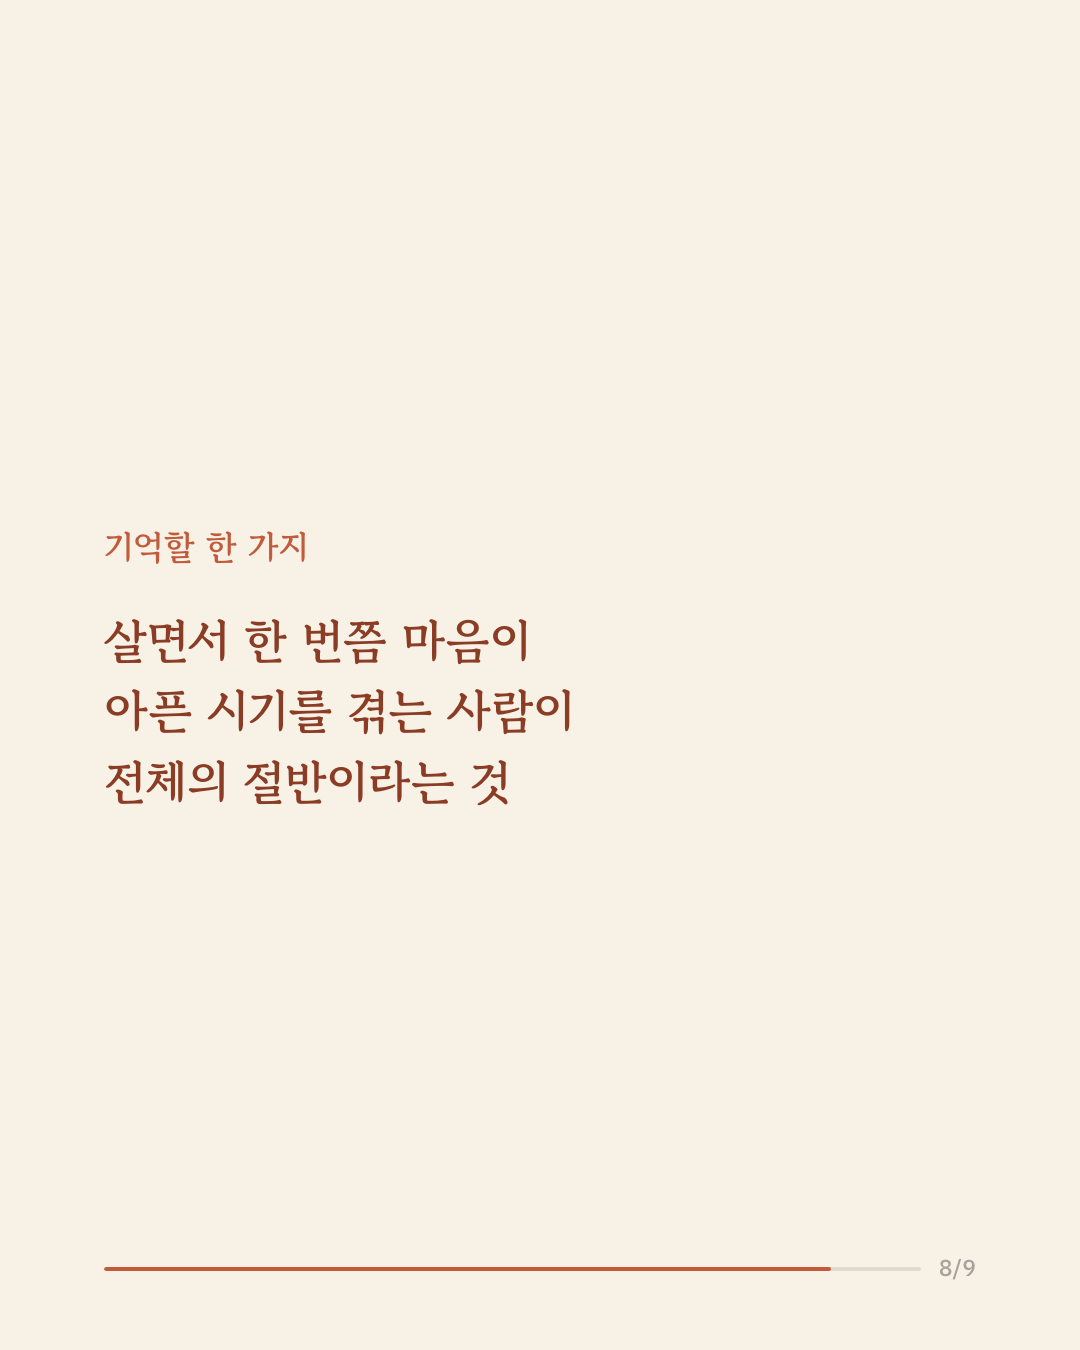
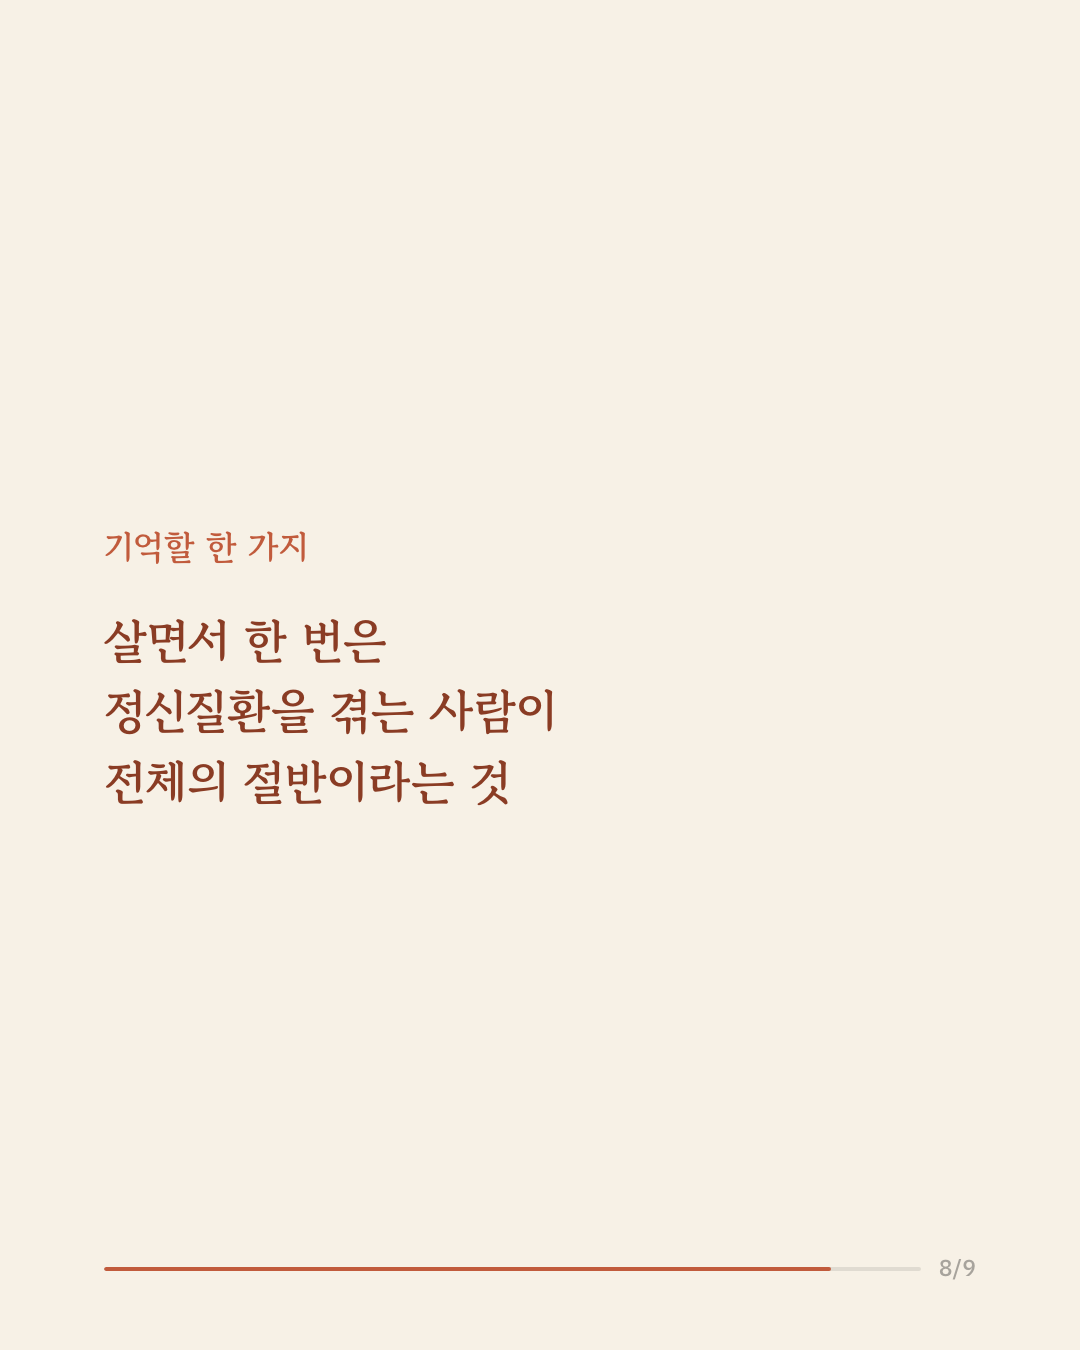
cards: 완곡어 정정 (마음의 병 -> 정신질환)

Changed region(s): [[0.0917, 0.4667, 0.5194, 0.56]]

diff --git a/index.html b/index.html
@@ -9,4 +9,4 @@ a{font-size:18px;color:#8a3c24;text-decoration:none;display:block}
 .reel{background:#efe5d3;border:1px solid #e4d8c2;border-radius:8px;padding:12px 14px;margin-bottom:16px;font-size:14px}
 .reel a{display:inline;font-size:14px}
 code{background:#efe5d3;padding:2px 6px;border-radius:4px;user-select:all}</style></head><body>
-<h1>검수 대기열 (22)</h1><div class="reel">🎬 릴스 초안 대기 — <a href="42424684/reel.html">42424684 영상 보기</a> · 발행 <code>python3 publish.py 42424684 --reel</code></div><div class="reel">🎬 릴스 초안 대기 — <a href="42637911/reel.html">42637911 영상 보기</a> · 발행 <code>python3 publish.py 42637911 --reel</code></div><div class="reel">🎬 릴스 초안 대기 — <a href="42665656/reel.html">42665656 영상 보기</a> · 발행 <code>python3 publish.py 42665656 --reel</code></div><ul><li><a href="10965637/preview.html">우울증 재발<br>막는 마음챙김</a><span class="m">임상심리 · 9장 · <a href="https://pubmed.ncbi.nlm.nih.gov/10965637/" target="_blank" rel="noopener">PubMed</a> · <a href="https://doi.org/10.1037//0022-006x.68.4.615" target="_blank" rel="noopener">원문(DOI)</a> · <code>python3 publish.py 10965637</code></span></li><li><a href="11209064/preview.html">가만히 있어도<br>뇌는 켜져 있다</a><span class="m">신경영상 · 8장 · <a href="https://pubmed.ncbi.nlm.nih.gov/11209064/" target="_blank" rel="noopener">PubMed</a> · <a href="https://doi.org/10.1073/pnas.98.2.676" target="_blank" rel="noopener">원문(DOI)</a> · <code>python3 publish.py 11209064</code></span></li><li><a href="15939837/preview.html">마음의 병이<br>시작되는 나이</a><span class="m">임상심리 · 10장 · <a href="https://pubmed.ncbi.nlm.nih.gov/15939837/" target="_blank" rel="noopener">PubMed</a> · <a href="https://doi.org/10.1001/archpsyc.62.6.593" target="_blank" rel="noopener">원문(DOI)</a> · <code>python3 publish.py 15939837</code></span></li><li><a href="23459093/preview.html">인지행동치료<br>효과의 지도</a><span class="m">임상심리 · 10장 · <a href="https://pubmed.ncbi.nlm.nih.gov/23459093/" target="_blank" rel="noopener">PubMed</a> · <a href="https://doi.org/10.1007/s10608-012-9476-1" target="_blank" rel="noopener">원문(DOI)</a> · <code>python3 publish.py 23459093</code></span></li><li><a href="41448486/preview.html">자해를 줄이는<br>맞춤 단계 치료</a><span class="m">자해자살 · 10장 · <a href="https://pubmed.ncbi.nlm.nih.gov/41448486/" target="_blank" rel="noopener">PubMed</a> · <a href="https://doi.org/10.1016/j.jaac.2025.12.008" target="_blank" rel="noopener">원문(DOI)</a> · <code>python3 publish.py 41448486</code></span></li><li><a href="41448487/preview.html">데이터로 나눈<br>청소년 다섯 유형</a><span class="m">자해자살 · 10장 · <a href="https://pubmed.ncbi.nlm.nih.gov/41448487/" target="_blank" rel="noopener">PubMed</a> · <a href="https://doi.org/10.1016/j.jaac.2025.12.009" target="_blank" rel="noopener">원문(DOI)</a> · <code>python3 publish.py 41448487</code></span></li><li><a href="41525818/preview.html">브레인 포그<br>뇌 에너지 부족</a><span class="m">신경영상 · 9장 · <a href="https://pubmed.ncbi.nlm.nih.gov/41525818/" target="_blank" rel="noopener">PubMed</a> · <a href="https://doi.org/10.1016/j.biopsych.2026.01.004" target="_blank" rel="noopener">원문(DOI)</a> · <code>python3 publish.py 41525818</code></span></li><li><a href="41534638/preview.html">체중이 늘고<br>잠이 느는 우울증</a><span class="m">임상심리 · 10장 · <a href="https://pubmed.ncbi.nlm.nih.gov/41534638/" target="_blank" rel="noopener">PubMed</a> · <a href="https://doi.org/10.1016/j.biopsych.2026.01.003" target="_blank" rel="noopener">원문(DOI)</a> · <code>python3 publish.py 41534638</code></span></li><li><a href="41791639/preview.html">학대가 뇌에<br>남기는 흔적</a><span class="m">신경영상 · 9장 · <a href="https://pubmed.ncbi.nlm.nih.gov/41791639/" target="_blank" rel="noopener">PubMed</a> · <a href="https://doi.org/10.1016/j.biopsych.2026.02.016" target="_blank" rel="noopener">원문(DOI)</a> · <code>python3 publish.py 41791639</code></span></li><li><a href="42149475/preview.html">일주일 앞<br>위기를 예측</a><span class="m">자해자살 · 10장 · <a href="https://pubmed.ncbi.nlm.nih.gov/42149475/" target="_blank" rel="noopener">PubMed</a> · <a href="https://doi.org/10.1037/abn0001117" target="_blank" rel="noopener">원문(DOI)</a> · <code>python3 publish.py 42149475</code></span></li><li><a href="42186177/preview.html">외로운 아이<br>무엇이 만들까</a><span class="m">흥미기타 · 9장 · <a href="https://pubmed.ncbi.nlm.nih.gov/42186177/" target="_blank" rel="noopener">PubMed</a> · <a href="https://doi.org/10.1111/jcpp.70178" target="_blank" rel="noopener">원문(DOI)</a> · <code>python3 publish.py 42186177</code></span></li><li><a href="42320979/preview.html">정신과 진단<br>밖의 자살 행동</a><span class="m">자해자살 · 11장 · <a href="https://pubmed.ncbi.nlm.nih.gov/42320979/" target="_blank" rel="noopener">PubMed</a> · <a href="https://doi.org/10.1177/2470547020924844" target="_blank" rel="noopener">원문(DOI)</a> · <code>python3 publish.py 42320979</code></span></li><li><a href="42324672/preview.html">비만·당뇨 치료제<br>조울증 재입원은?</a><span class="m">임상심리 · 9장 · <a href="https://pubmed.ncbi.nlm.nih.gov/42324672/" target="_blank" rel="noopener">PubMed</a> · <a href="https://doi.org/10.1093/joccuh/uiaf067" target="_blank" rel="noopener">원문(DOI)</a> · <code>python3 publish.py 42324672</code></span></li><li><a href="42424684/preview.html">미루는 습관<br>무엇이 바뀌나</a><span class="m">임상심리 · 9장 · <a href="https://pubmed.ncbi.nlm.nih.gov/42424684/" target="_blank" rel="noopener">PubMed</a> · <a href="https://doi.org/10.1016/j.brat.2026.105106" target="_blank" rel="noopener">원문(DOI)</a> · <code>python3 publish.py 42424684</code></span></li><li><a href="42637911/preview.html">AI가 지우는<br>말의 다양성</a><span class="m">흥미기타 · 9장 · <a href="https://pubmed.ncbi.nlm.nih.gov/42637911/" target="_blank" rel="noopener">PubMed</a> · <a href="https://doi.org/10.1037/0033-2909.112.1.155" target="_blank" rel="noopener">원문(DOI)</a> · <code>python3 publish.py 42637911</code></span></li><li><a href="42649254/preview.html">쉴 때의 딴생각<br>뇌에 남는다</a><span class="m">신경영상 · 9장 · <a href="https://pubmed.ncbi.nlm.nih.gov/42649254/" target="_blank" rel="noopener">PubMed</a> · <a href="https://doi.org/10.1002/hbm.26488" target="_blank" rel="noopener">원문(DOI)</a> · <code>python3 publish.py 42649254</code></span></li><li><a href="42665164/preview.html">항우울제 복용 후<br>남는 증상</a><span class="m">임상심리 · 10장 · <a href="https://pubmed.ncbi.nlm.nih.gov/42665164/" target="_blank" rel="noopener">PubMed</a> · <a href="https://doi.org/10.1016/j.jad.2026.122429" target="_blank" rel="noopener">원문(DOI)</a> · <code>python3 publish.py 42665164</code></span></li><li><a href="42665656/preview.html">소셜 미디어와<br>삶의 만족도</a><span class="m">흥미기타 · 9장 · <a href="https://pubmed.ncbi.nlm.nih.gov/42665656/" target="_blank" rel="noopener">PubMed</a> · <a href="https://doi.org/10.1037/pspp0000358" target="_blank" rel="noopener">원문(DOI)</a> · <code>python3 publish.py 42665656</code></span></li><li><a href="42669382/preview.html">보톡스 주사가<br>우울을 줄일까</a><span class="m">임상심리 · 10장 · <a href="https://pubmed.ncbi.nlm.nih.gov/42669382/" target="_blank" rel="noopener">PubMed</a> · <a href="https://doi.org/10.1016/j.jad.2026.122443" target="_blank" rel="noopener">원문(DOI)</a> · <code>python3 publish.py 42669382</code></span></li><li><a href="42677042/preview.html">커피는 지키고,<br>탄산은 흔든다</a><span class="m">임상심리 · 10장 · <a href="https://pubmed.ncbi.nlm.nih.gov/42677042/" target="_blank" rel="noopener">PubMed</a> · <a href="https://doi.org/10.1002/da.22175" target="_blank" rel="noopener">원문(DOI)</a> · <code>python3 publish.py 42677042</code></span></li><li><a href="42715666/preview.html">대처 자신감과<br>외상 증상의 동조</a><span class="m">임상심리 · 9장 · <a href="https://pubmed.ncbi.nlm.nih.gov/42715666/" target="_blank" rel="noopener">PubMed</a> · <a href="https://doi.org/10.1016/j.janxdis.2026.103229" target="_blank" rel="noopener">원문(DOI)</a> · <code>python3 publish.py 42715666</code></span></li><li><a href="9635069/preview.html">어린 시절과<br>성인기 건강</a><span class="m">임상심리 · 9장 · <a href="https://pubmed.ncbi.nlm.nih.gov/9635069/" target="_blank" rel="noopener">PubMed</a> · <a href="https://doi.org/10.1016/s0749-3797(98)00017-8" target="_blank" rel="noopener">원문(DOI)</a> · <code>python3 publish.py 9635069</code></span></li></ul></body></html>
+<h1>검수 대기열 (22)</h1><div class="reel">🎬 릴스 초안 대기 — <a href="42424684/reel.html">42424684 영상 보기</a> · 발행 <code>python3 publish.py 42424684 --reel</code></div><div class="reel">🎬 릴스 초안 대기 — <a href="42637911/reel.html">42637911 영상 보기</a> · 발행 <code>python3 publish.py 42637911 --reel</code></div><div class="reel">🎬 릴스 초안 대기 — <a href="42665656/reel.html">42665656 영상 보기</a> · 발행 <code>python3 publish.py 42665656 --reel</code></div><ul><li><a href="10965637/preview.html">우울증 재발<br>막는 마음챙김</a><span class="m">임상심리 · 9장 · <a href="https://pubmed.ncbi.nlm.nih.gov/10965637/" target="_blank" rel="noopener">PubMed</a> · <a href="https://doi.org/10.1037//0022-006x.68.4.615" target="_blank" rel="noopener">원문(DOI)</a> · <code>python3 publish.py 10965637</code></span></li><li><a href="11209064/preview.html">가만히 있어도<br>뇌는 켜져 있다</a><span class="m">신경영상 · 8장 · <a href="https://pubmed.ncbi.nlm.nih.gov/11209064/" target="_blank" rel="noopener">PubMed</a> · <a href="https://doi.org/10.1073/pnas.98.2.676" target="_blank" rel="noopener">원문(DOI)</a> · <code>python3 publish.py 11209064</code></span></li><li><a href="15939837/preview.html">정신질환이<br>시작되는 나이</a><span class="m">임상심리 · 10장 · <a href="https://pubmed.ncbi.nlm.nih.gov/15939837/" target="_blank" rel="noopener">PubMed</a> · <a href="https://doi.org/10.1001/archpsyc.62.6.593" target="_blank" rel="noopener">원문(DOI)</a> · <code>python3 publish.py 15939837</code></span></li><li><a href="23459093/preview.html">인지행동치료<br>효과의 지도</a><span class="m">임상심리 · 10장 · <a href="https://pubmed.ncbi.nlm.nih.gov/23459093/" target="_blank" rel="noopener">PubMed</a> · <a href="https://doi.org/10.1007/s10608-012-9476-1" target="_blank" rel="noopener">원문(DOI)</a> · <code>python3 publish.py 23459093</code></span></li><li><a href="41448486/preview.html">자해를 줄이는<br>맞춤 단계 치료</a><span class="m">자해자살 · 10장 · <a href="https://pubmed.ncbi.nlm.nih.gov/41448486/" target="_blank" rel="noopener">PubMed</a> · <a href="https://doi.org/10.1016/j.jaac.2025.12.008" target="_blank" rel="noopener">원문(DOI)</a> · <code>python3 publish.py 41448486</code></span></li><li><a href="41448487/preview.html">데이터로 나눈<br>청소년 다섯 유형</a><span class="m">자해자살 · 10장 · <a href="https://pubmed.ncbi.nlm.nih.gov/41448487/" target="_blank" rel="noopener">PubMed</a> · <a href="https://doi.org/10.1016/j.jaac.2025.12.009" target="_blank" rel="noopener">원문(DOI)</a> · <code>python3 publish.py 41448487</code></span></li><li><a href="41525818/preview.html">브레인 포그<br>뇌 에너지 부족</a><span class="m">신경영상 · 9장 · <a href="https://pubmed.ncbi.nlm.nih.gov/41525818/" target="_blank" rel="noopener">PubMed</a> · <a href="https://doi.org/10.1016/j.biopsych.2026.01.004" target="_blank" rel="noopener">원문(DOI)</a> · <code>python3 publish.py 41525818</code></span></li><li><a href="41534638/preview.html">체중이 늘고<br>잠이 느는 우울증</a><span class="m">임상심리 · 10장 · <a href="https://pubmed.ncbi.nlm.nih.gov/41534638/" target="_blank" rel="noopener">PubMed</a> · <a href="https://doi.org/10.1016/j.biopsych.2026.01.003" target="_blank" rel="noopener">원문(DOI)</a> · <code>python3 publish.py 41534638</code></span></li><li><a href="41791639/preview.html">학대가 뇌에<br>남기는 흔적</a><span class="m">신경영상 · 9장 · <a href="https://pubmed.ncbi.nlm.nih.gov/41791639/" target="_blank" rel="noopener">PubMed</a> · <a href="https://doi.org/10.1016/j.biopsych.2026.02.016" target="_blank" rel="noopener">원문(DOI)</a> · <code>python3 publish.py 41791639</code></span></li><li><a href="42149475/preview.html">일주일 앞<br>위기를 예측</a><span class="m">자해자살 · 10장 · <a href="https://pubmed.ncbi.nlm.nih.gov/42149475/" target="_blank" rel="noopener">PubMed</a> · <a href="https://doi.org/10.1037/abn0001117" target="_blank" rel="noopener">원문(DOI)</a> · <code>python3 publish.py 42149475</code></span></li><li><a href="42186177/preview.html">외로운 아이<br>무엇이 만들까</a><span class="m">흥미기타 · 9장 · <a href="https://pubmed.ncbi.nlm.nih.gov/42186177/" target="_blank" rel="noopener">PubMed</a> · <a href="https://doi.org/10.1111/jcpp.70178" target="_blank" rel="noopener">원문(DOI)</a> · <code>python3 publish.py 42186177</code></span></li><li><a href="42320979/preview.html">정신과 진단<br>밖의 자살 행동</a><span class="m">자해자살 · 11장 · <a href="https://pubmed.ncbi.nlm.nih.gov/42320979/" target="_blank" rel="noopener">PubMed</a> · <a href="https://doi.org/10.1177/2470547020924844" target="_blank" rel="noopener">원문(DOI)</a> · <code>python3 publish.py 42320979</code></span></li><li><a href="42324672/preview.html">비만·당뇨 치료제<br>조울증 재입원은?</a><span class="m">임상심리 · 9장 · <a href="https://pubmed.ncbi.nlm.nih.gov/42324672/" target="_blank" rel="noopener">PubMed</a> · <a href="https://doi.org/10.1093/joccuh/uiaf067" target="_blank" rel="noopener">원문(DOI)</a> · <code>python3 publish.py 42324672</code></span></li><li><a href="42424684/preview.html">미루는 습관<br>무엇이 바뀌나</a><span class="m">임상심리 · 9장 · <a href="https://pubmed.ncbi.nlm.nih.gov/42424684/" target="_blank" rel="noopener">PubMed</a> · <a href="https://doi.org/10.1016/j.brat.2026.105106" target="_blank" rel="noopener">원문(DOI)</a> · <code>python3 publish.py 42424684</code></span></li><li><a href="42637911/preview.html">AI가 지우는<br>말의 다양성</a><span class="m">흥미기타 · 9장 · <a href="https://pubmed.ncbi.nlm.nih.gov/42637911/" target="_blank" rel="noopener">PubMed</a> · <a href="https://doi.org/10.1037/0033-2909.112.1.155" target="_blank" rel="noopener">원문(DOI)</a> · <code>python3 publish.py 42637911</code></span></li><li><a href="42649254/preview.html">쉴 때의 딴생각<br>뇌에 남는다</a><span class="m">신경영상 · 9장 · <a href="https://pubmed.ncbi.nlm.nih.gov/42649254/" target="_blank" rel="noopener">PubMed</a> · <a href="https://doi.org/10.1002/hbm.26488" target="_blank" rel="noopener">원문(DOI)</a> · <code>python3 publish.py 42649254</code></span></li><li><a href="42665164/preview.html">항우울제 복용 후<br>남는 증상</a><span class="m">임상심리 · 10장 · <a href="https://pubmed.ncbi.nlm.nih.gov/42665164/" target="_blank" rel="noopener">PubMed</a> · <a href="https://doi.org/10.1016/j.jad.2026.122429" target="_blank" rel="noopener">원문(DOI)</a> · <code>python3 publish.py 42665164</code></span></li><li><a href="42665656/preview.html">소셜 미디어와<br>삶의 만족도</a><span class="m">흥미기타 · 9장 · <a href="https://pubmed.ncbi.nlm.nih.gov/42665656/" target="_blank" rel="noopener">PubMed</a> · <a href="https://doi.org/10.1037/pspp0000358" target="_blank" rel="noopener">원문(DOI)</a> · <code>python3 publish.py 42665656</code></span></li><li><a href="42669382/preview.html">보톡스 주사가<br>우울을 줄일까</a><span class="m">임상심리 · 10장 · <a href="https://pubmed.ncbi.nlm.nih.gov/42669382/" target="_blank" rel="noopener">PubMed</a> · <a href="https://doi.org/10.1016/j.jad.2026.122443" target="_blank" rel="noopener">원문(DOI)</a> · <code>python3 publish.py 42669382</code></span></li><li><a href="42677042/preview.html">커피는 지키고,<br>탄산은 흔든다</a><span class="m">임상심리 · 10장 · <a href="https://pubmed.ncbi.nlm.nih.gov/42677042/" target="_blank" rel="noopener">PubMed</a> · <a href="https://doi.org/10.1002/da.22175" target="_blank" rel="noopener">원문(DOI)</a> · <code>python3 publish.py 42677042</code></span></li><li><a href="42715666/preview.html">대처 자신감과<br>외상 증상의 동조</a><span class="m">임상심리 · 9장 · <a href="https://pubmed.ncbi.nlm.nih.gov/42715666/" target="_blank" rel="noopener">PubMed</a> · <a href="https://doi.org/10.1016/j.janxdis.2026.103229" target="_blank" rel="noopener">원문(DOI)</a> · <code>python3 publish.py 42715666</code></span></li><li><a href="9635069/preview.html">어린 시절과<br>성인기 건강</a><span class="m">임상심리 · 9장 · <a href="https://pubmed.ncbi.nlm.nih.gov/9635069/" target="_blank" rel="noopener">PubMed</a> · <a href="https://doi.org/10.1016/s0749-3797(98)00017-8" target="_blank" rel="noopener">원문(DOI)</a> · <code>python3 publish.py 9635069</code></span></li></ul></body></html>

diff --git a/15939837/preview.html b/15939837/preview.html
@@ -1,6 +1,6 @@
 <!doctype html><html lang=ko><head><meta charset=utf-8>
 <meta name=viewport content="width=device-width,initial-scale=1,viewport-fit=cover">
-<title>마음의 병이 시작되는 나이 · 검수</title><style>
+<title>정신질환이 시작되는 나이 · 검수</title><style>
 *{box-sizing:border-box} body{margin:0;background:#241c17;font-family:-apple-system,'Apple SD Gothic Neo',sans-serif;color:#eee}
 .top,.bot{position:fixed;left:0;right:0;z-index:5;padding:11px 16px;background:rgba(0,0,0,.6);
   backdrop-filter:blur(6px);font-size:14px;display:flex;justify-content:space-between;gap:10px}
@@ -12,7 +12,7 @@ code{background:#3a2f27;padding:2px 7px;border-radius:5px;color:#e0a58b;user-sel
 details{color:#cbbfb4} summary{cursor:pointer}
 .bot a{color:#e0a58b}
 </style></head><body>
-<div class="top"><span>마음의 병이 시작되는 나이</span><span>10장 · 임상심리</span></div>
+<div class="top"><span>정신질환이 시작되는 나이</span><span>10장 · 임상심리</span></div>
 <div class="gal"><img src="01.png" alt="슬라이드 1" loading="lazy"><img src="02.png" alt="슬라이드 2" loading="lazy"><img src="03.png" alt="슬라이드 3" loading="lazy"><img src="04.png" alt="슬라이드 4" loading="lazy"><img src="05.png" alt="슬라이드 5" loading="lazy"><img src="06.png" alt="슬라이드 6" loading="lazy"><img src="07.png" alt="슬라이드 7" loading="lazy"><img src="08.png" alt="슬라이드 8" loading="lazy"><img src="09.png" alt="슬라이드 9" loading="lazy"><img src="10.png" alt="슬라이드 10" loading="lazy"></div>
 <div class="bot">
 <details><summary>캡션 보기</summary><p style="font-size:13px;line-height:1.6">불안 장애나 우울증 같은 정신질환이 평생에 걸쳐 얼마나 흔한지, 또 대개 몇 살에 처음 시작되는지에 대한 전국 규모의 근거는 오랫동안 부족했습니다. 진단 기준(DSM-IV)에 따른 체계적인 추정치가 필요했습니다. 이 연구는 미국 전국을 대표하는 성인 9,282명을 2001년부터 2003년까지 대면으로 면담해 평생 유병률과 발병 연령 분포를 추정했습니다.  평생 동안 불안·기분·충동조절·물질사용 장애 중 하나라도 겪는 사람은 46.4%로 추정되었고, 그중 불안 장애가 28.8%로 가장 흔했습니다. 발병 시점을 보면 전체 사례의 절반이 14세까지, 4분의 3이 24세까지 시작되었으며, 불안·충동조절 장애는 발병 중앙연령이 11세로 특히 일렀습니다.  연구진은 정신질환의 첫 발병이 대개 아동·청소년기에 일어나므로 예방과 조기 개입의 초점을 청소년기에 둘 필요가 있다고 보았습니다. 다만 발병 시기는 응답자의 회고에 의존해 기억 오차가 있을 수 있고, 영어를 쓰는 미국 성인만을 2000년대 초에 조사한 자료입니다. 단일 연구이므로 확대 해석은 조심해야 합니다.  출처: Archives of General Psychiatry (2005), &#x27;Lifetime prevalence and age-of-onset distributions of DSM-IV disorders in the National Comorbidity Survey Replication&#x27;  #임상심리 #정신건강정보 #심리학연구 #정신질환유병률 #조기개입</p></details>
